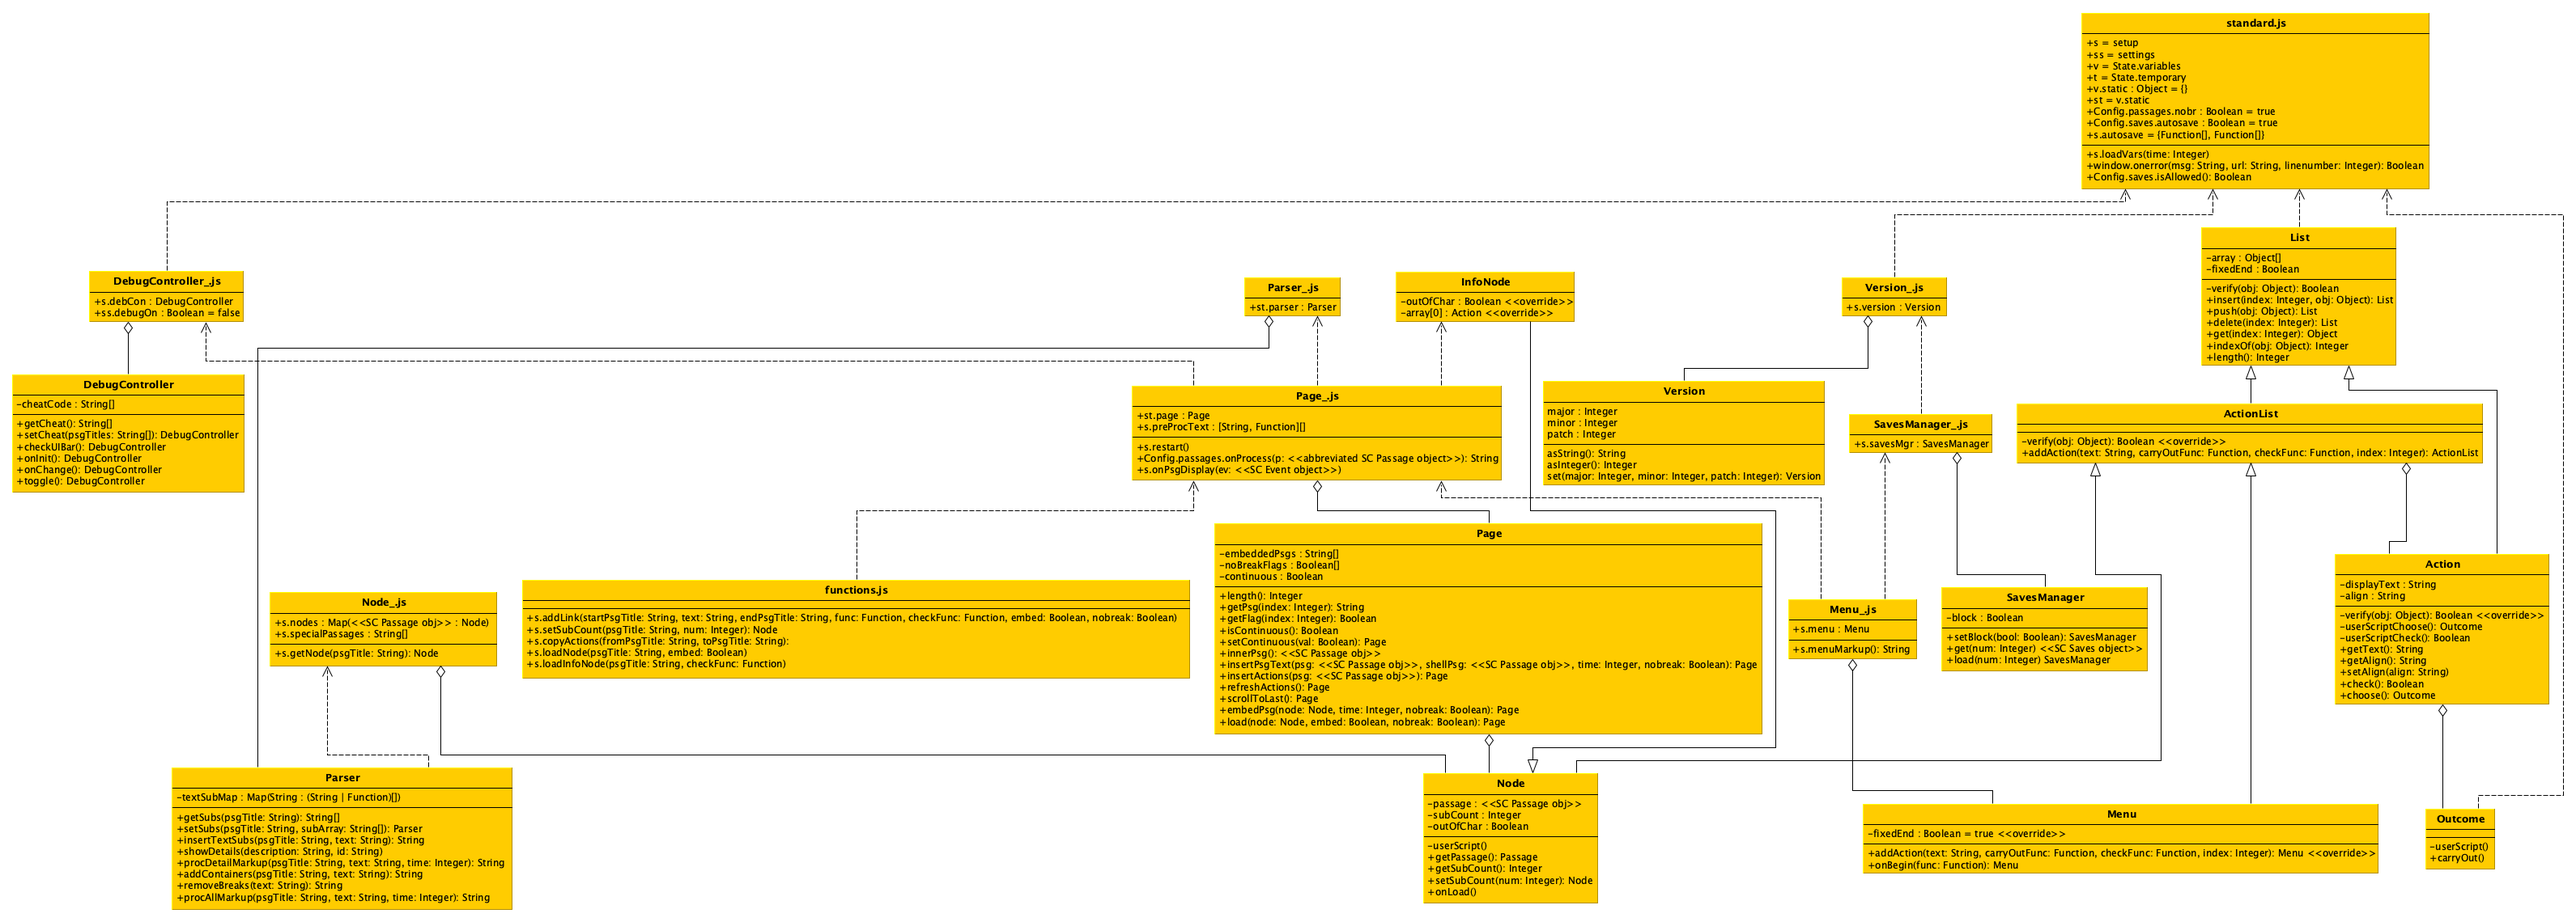
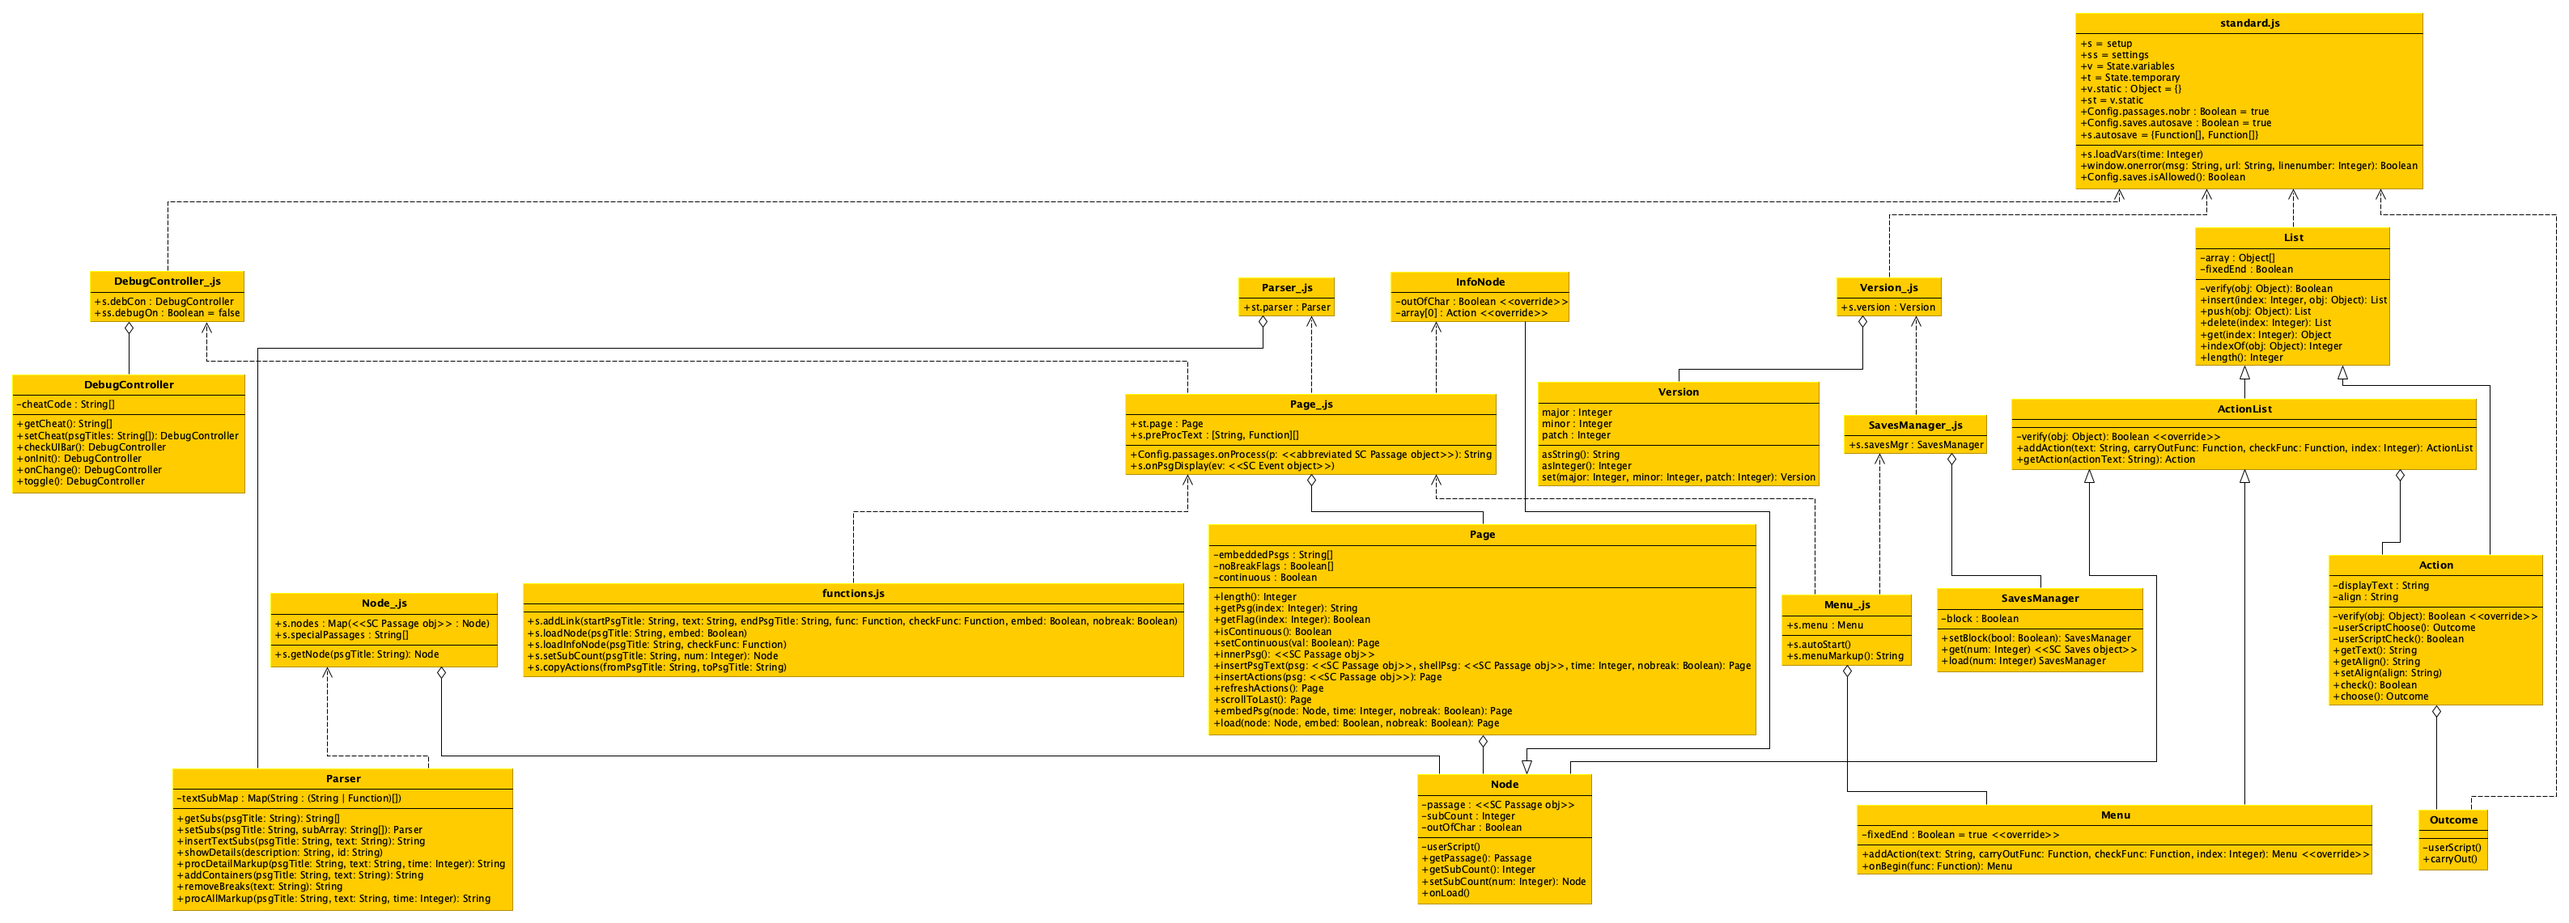
version 0.4.7
see change log

diff --git a/bear-fight.html b/bear-fight.html
@@ -1406,50 +1406,35 @@ Config.passages.onProcess = function(p) {
     return processedText;
 };
 
-$(window).bind('beforeunload pagehide', function(){
+$(document).one(':storyready', function() {
     /*
-    Restart upon browser refresh. Otherwise, upon browser refresh,
-    `Page.scrollToLast()` will not fire. (It fires too early, before the
-    reloaded page is ready, and we cannot bind to any event that
-    triggers after the page is fully reloaded.) This ad hoc solution
-    requires that the 'Start' passage offer a way to reload the
-    autosave.
+    Executes `st.page.scrollToLast()` upon browser refresh. Other, more
+    straightforward attempts to code this failed. According to Akjosch
+    in the Twine Games Discord server, "The 'problem' here is that the
+    modern browsers don't bother to calculate the sizes of things which
+    they don't have to render if they can help it, so while the
+    structure is there, it's all kinda hidden and wishy-washy until the
+    data-init value gets removed, which (via CSS rules) prompts the
+    browser to recalculate all relevant sizes and positions. And then
+    you can scroll."
     */
-    Engine.restart();
-});
-
-$(document).one(':enginerestart', function (ev) {
-    /*
-    To perform a 'hard restart' (i.e. to delete the autosave before
-    restarting), set 'hardRestart' to true in the metadata before
-    restarting.
-    */
-    if (recall('hardRestart', false)) {
-        Save.autosave.delete();
-        forget('hardRestart');
+    if (s.getNode(passage()) === undefined) {
+        return;
     }
+    var observer = new MutationObserver(function(m) {
+        for(var mut of m) {
+            if(mut.type === "attributes" && mut.attributeName === "data-init") {
+                // window.requestAnimationFrame(
+                //     st.page.scrollToLast.bind(st.page)
+                // );
+                st.page.scrollToLast();
+                observer.disconnect();
+            }
+        }
+    });
+    
+    observer.observe(document.scrollingElement, {attributes: true});
 });
-
-$('#menu-item-restart').remove() // remove default Restart button
-
-s.restart = function() {
-    /*
-    In general, this custom restart function is preferred over
-    `Engine.restart()` and is what should be triggered by any 'restart'
-    menu items. In particular, the default 'Restart' button in the UI
-    bar should be removed.
-
-    In general, this function performs a hard restart. If it was called
-    from the 'Start' passage, sets 'autoBegin' to true in the metadata.
-    The start passage can use this metadata to immediately move to the
-    next passage in the story rather than simply refresh itself.
-    */
-    memorize('hardRestart', true);
-    if (passage() === 'Start') {
-        memorize('autoStart', true);
-    }
-    Engine.restart();
-}
 
 s.onPsgDisplay = function(ev) {
     /*
@@ -1724,7 +1709,11 @@ s.Menu = function() {
         'restart',
         function() {
             if (ss.debugOn || confirm('Really restart?')) {
-                s.restart();
+                Save.autosave.delete();
+                if (passage() === 'Start') {
+                    memorize('autoStart', true);
+                }
+                Engine.restart();
             }
         },
         function() {
@@ -1796,22 +1785,15 @@ s.Menu.prototype.onBegin = function(func) {
 
 s.menu = new s.Menu();
 
+$('#menu-item-restart').remove() // remove default Restart button
+
 s.autoStart = function() {
     /*
-    Automatically carry out the 'begin' or 'resume' actions, whichever
-    is available.
+    Automatically carry out the 'begin' action.
     */
     var begin = s.menu.getAction('begin');
     if (begin.check()) {
         begin.choose().carryOut();
-        return;
-    }
-    if (ss.debugOn) {
-        var resume = s.menu.getAction('resume');
-        if (resume.check()) {
-            resume.choose().carryOut();
-            return;
-        }
     }
 }
 
@@ -1871,8 +1853,8 @@ s.preProcText.push(['PassageHeader', function(text) {
 
 s.preProcText.push(['Start', function(text) {
     /*
-    Use the autoStart metadata from the s.restart() function to skip the
-    title page.
+    Use the autoStart metadata from the restart action to skip the title
+    page.
     */
     return (
         '<<timed 0s>>' +
@@ -2005,7 +1987,7 @@ s.copyActions = function(fromPsgTitle, toPsgTitle) {
     return;
 }
 /* twine-user-script #15: "9000-main.js" */
-s.version.set(0,4,6);
+s.version.set(0,4,7);
 s.savesMgr.setBlock(true); // block loading of saves from old versions
 st.page.setContinuous(true); // make embedding passages the default
 

diff --git a/src/javascript/0100-Page_.js b/src/javascript/0100-Page_.js
@@ -299,50 +299,35 @@ Config.passages.onProcess = function(p) {
     return processedText;
 };
 
-$(window).bind('beforeunload pagehide', function(){
+$(document).one(':storyready', function() {
     /*
-    Restart upon browser refresh. Otherwise, upon browser refresh,
-    `Page.scrollToLast()` will not fire. (It fires too early, before the
-    reloaded page is ready, and we cannot bind to any event that
-    triggers after the page is fully reloaded.) This ad hoc solution
-    requires that the 'Start' passage offer a way to reload the
-    autosave.
+    Executes `st.page.scrollToLast()` upon browser refresh. Other, more
+    straightforward attempts to code this failed. According to Akjosch
+    in the Twine Games Discord server, "The 'problem' here is that the
+    modern browsers don't bother to calculate the sizes of things which
+    they don't have to render if they can help it, so while the
+    structure is there, it's all kinda hidden and wishy-washy until the
+    data-init value gets removed, which (via CSS rules) prompts the
+    browser to recalculate all relevant sizes and positions. And then
+    you can scroll."
     */
-    Engine.restart();
-});
-
-$(document).one(':enginerestart', function (ev) {
-    /*
-    To perform a 'hard restart' (i.e. to delete the autosave before
-    restarting), set 'hardRestart' to true in the metadata before
-    restarting.
-    */
-    if (recall('hardRestart', false)) {
-        Save.autosave.delete();
-        forget('hardRestart');
+    if (s.getNode(passage()) === undefined) {
+        return;
     }
+    var observer = new MutationObserver(function(m) {
+        for(var mut of m) {
+            if(mut.type === "attributes" && mut.attributeName === "data-init") {
+                // window.requestAnimationFrame(
+                //     st.page.scrollToLast.bind(st.page)
+                // );
+                st.page.scrollToLast();
+                observer.disconnect();
+            }
+        }
+    });
+    
+    observer.observe(document.scrollingElement, {attributes: true});
 });
-
-$('#menu-item-restart').remove() // remove default Restart button
-
-s.restart = function() {
-    /*
-    In general, this custom restart function is preferred over
-    `Engine.restart()` and is what should be triggered by any 'restart'
-    menu items. In particular, the default 'Restart' button in the UI
-    bar should be removed.
-
-    In general, this function performs a hard restart. If it was called
-    from the 'Start' passage, sets 'autoBegin' to true in the metadata.
-    The start passage can use this metadata to immediately move to the
-    next passage in the story rather than simply refresh itself.
-    */
-    memorize('hardRestart', true);
-    if (passage() === 'Start') {
-        memorize('autoStart', true);
-    }
-    Engine.restart();
-}
 
 s.onPsgDisplay = function(ev) {
     /*

diff --git a/src/javascript/0130-Menu_.js b/src/javascript/0130-Menu_.js
@@ -37,7 +37,11 @@ s.Menu = function() {
         'restart',
         function() {
             if (ss.debugOn || confirm('Really restart?')) {
-                s.restart();
+                Save.autosave.delete();
+                if (passage() === 'Start') {
+                    memorize('autoStart', true);
+                }
+                Engine.restart();
             }
         },
         function() {
@@ -109,22 +113,15 @@ s.Menu.prototype.onBegin = function(func) {
 
 s.menu = new s.Menu();
 
+$('#menu-item-restart').remove() // remove default Restart button
+
 s.autoStart = function() {
     /*
-    Automatically carry out the 'begin' or 'resume' actions, whichever
-    is available.
+    Automatically carry out the 'begin' action.
     */
     var begin = s.menu.getAction('begin');
     if (begin.check()) {
         begin.choose().carryOut();
-        return;
-    }
-    if (ss.debugOn) {
-        var resume = s.menu.getAction('resume');
-        if (resume.check()) {
-            resume.choose().carryOut();
-            return;
-        }
     }
 }
 
@@ -184,8 +181,8 @@ s.preProcText.push(['PassageHeader', function(text) {
 
 s.preProcText.push(['Start', function(text) {
     /*
-    Use the autoStart metadata from the s.restart() function to skip the
-    title page.
+    Use the autoStart metadata from the restart action to skip the title
+    page.
     */
     return (
         '<<timed 0s>>' +

diff --git a/change-log.html b/change-log.html
@@ -265,6 +265,16 @@ pre[data-line] .line-highlight[data-end]:after {
       <div class="mume markdown-preview  ">
       <h1 class="mume-header" id="change-log">Change Log</h1>
 
+<h2 class="mume-header" id="version-047">Version 0.4.7</h2>
+
+<ul>
+<li>No longer restarts engine on refresh.</li>
+<li>No longer distinguishes between a hard and not hard restart.</li>
+<li>Added a piece of code to the <code>:storyready</code> event, written by Akjosch, that uses the <code>MutationObserver</code> class to ensure that the page scrolls to the bottom upon refresh. Works in Firefox and Chrome. Fails on Safari.</li>
+<li>Moved the code that removes the default Restart button from <code>Page</code> to <code>Menu</code>.</li>
+<li>Deleted the custom <code>restart()</code> function and rewrote the &apos;restart&apos; action in the <code>Menu</code>.</li>
+<li>Simplified the <code>autoStart()</code> function to not treat debug mode separately.</li>
+</ul>
 <h2 class="mume-header" id="version-046">Version 0.4.6</h2>
 
 <ul>

diff --git a/src/javascript/9000-main.js b/src/javascript/9000-main.js
@@ -1,4 +1,4 @@
-s.version.set(0,4,6);
+s.version.set(0,4,7);
 s.savesMgr.setBlock(true); // block loading of saves from old versions
 st.page.setContinuous(true); // make embedding passages the default
 

diff --git a/change-log.md b/change-log.md
@@ -4,6 +4,15 @@ title: Change Log
 
 # Change Log
 
+## Version 0.4.7
+
+* No longer restarts engine on refresh.
+* No longer distinguishes between a hard and not hard restart.
+* Added a piece of code to the `:storyready` event, written by Akjosch, that uses the `MutationObserver` class to ensure that the page scrolls to the bottom upon refresh. Works in Firefox and Chrome. Fails on Safari.
+* Moved the code that removes the default Restart button from `Page` to `Menu`.
+* Deleted the custom `restart()` function and rewrote the 'restart' action in the `Menu`.
+* Simplified the `autoStart()` function to not treat debug mode separately.
+
 ## Version 0.4.6
 
 * Added `getAction()` method to `ActionList`.
